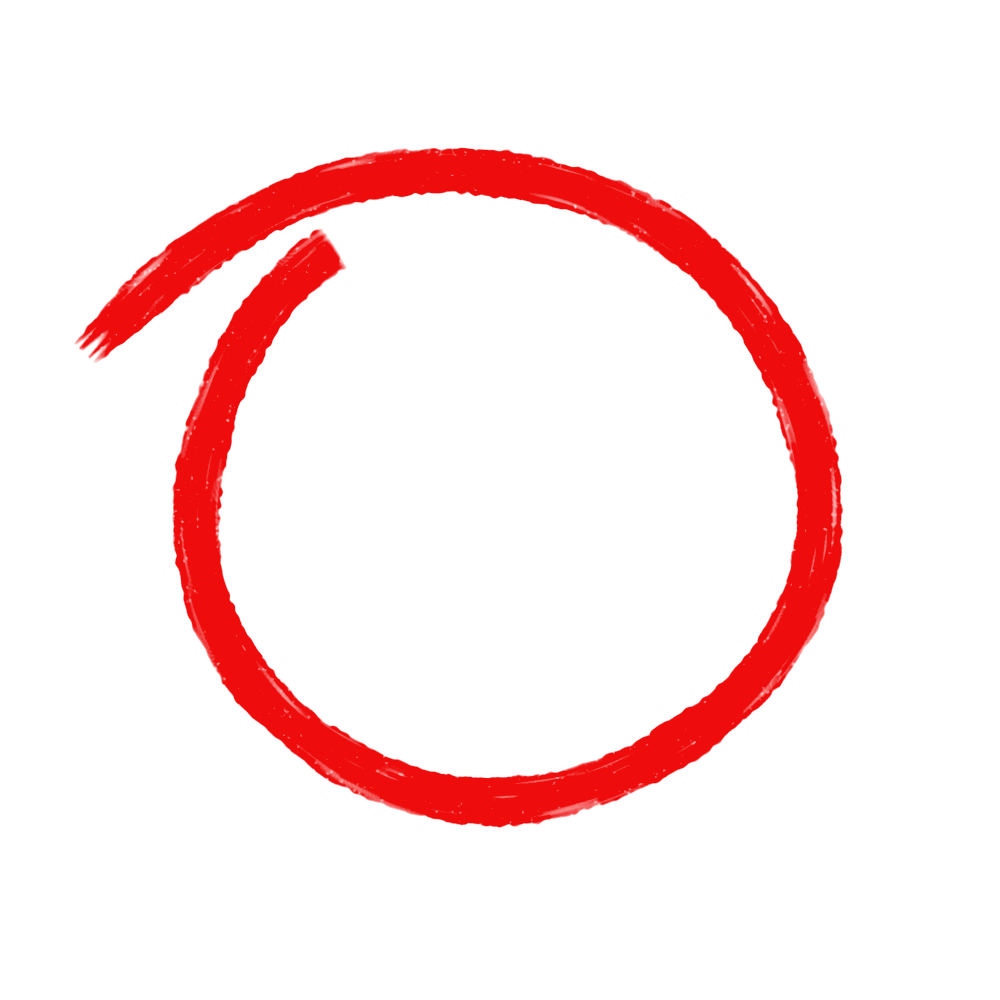
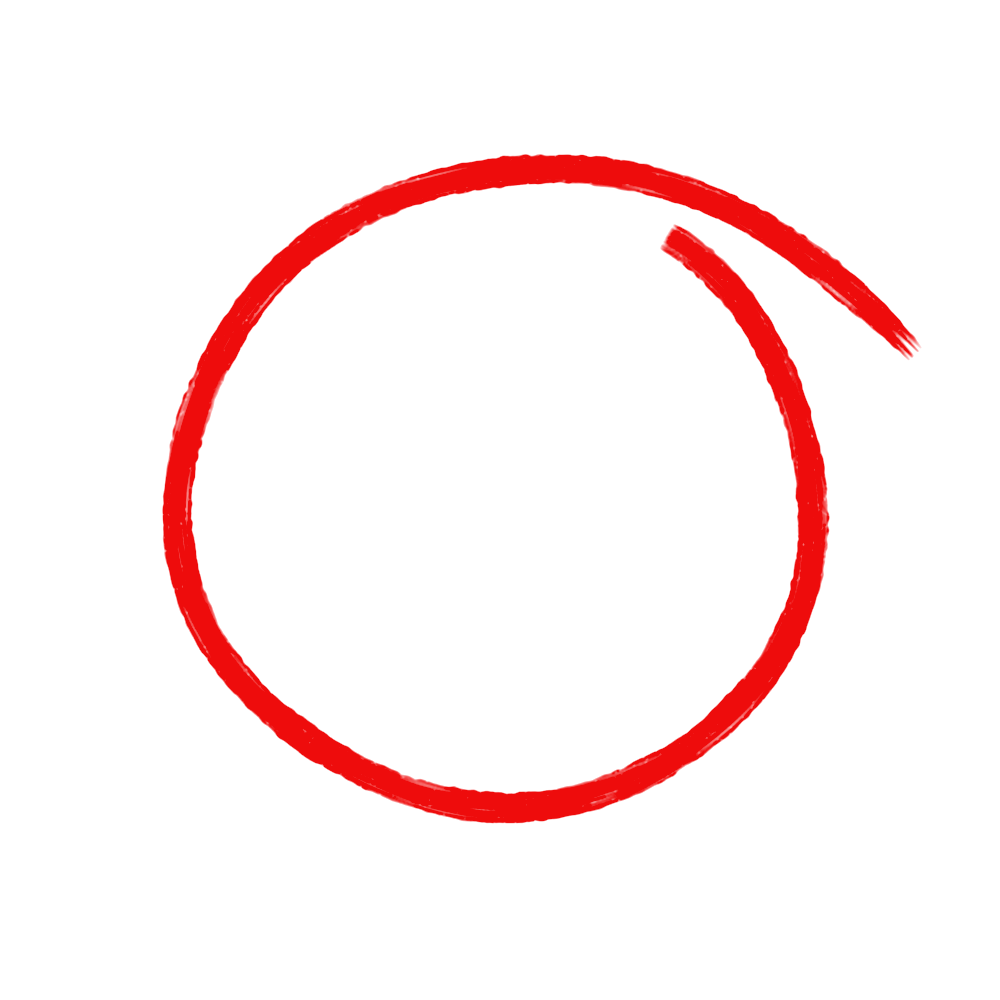
Smallpox v24: thinner counterclockwise marker, darker vibrant orange on VACCINATION
Claude-Session: https://claude.ai/code/session_0178qcQmdY3D7pLgkLoDPcSY

Changed region(s): [[0.062, 0.124, 0.93, 0.837]]

diff --git a/src/kit/ActionWord.tsx b/src/kit/ActionWord.tsx
@@ -196,14 +196,14 @@ export const ActionWord: React.FC<{
             }
             const lit = i >= hiFrom && i < hiTo ? clamp01((frame - actAt - (i - hiFrom) * 3) / 6) : 0;
             return (
-              <span key={i} style={{display: 'inline-block', transform: `translateY(${(1 - enter) * 60}px) scale(${0.4 + 0.6 * enter})`, opacity: enter, color: lit > 0.5 ? '#E0615E' : main, WebkitTextStroke: heavy ? `${fontSize * 0.04}px ${lit > 0.5 ? '#E0615E' : main}` : undefined, transition: 'none'}}>
+              <span key={i} style={{display: 'inline-block', transform: `translateY(${(1 - enter) * 60}px) scale(${0.4 + 0.6 * enter})`, opacity: enter, color: lit > 0.5 ? '#E5500F' : main, WebkitTextStroke: heavy ? `${fontSize * 0.04}px ${lit > 0.5 ? '#E5500F' : main}` : undefined, transition: 'none'}}>
                 {ch}
               </span>
             );
           })}
         </div>
         {gloss && mode === 'pop' ? (
-          <div dir={glossDir} style={{textAlign: 'center', marginTop: fontSize * 0.2, fontFamily: SANS, fontWeight: 700, fontSize: fontSize * 0.36, color: hiTo > hiFrom ? '#E0615E' : main, opacity: clamp01((frame - actAt) / 8)}}>{gloss}</div>
+          <div dir={glossDir} style={{textAlign: 'center', marginTop: fontSize * 0.2, fontFamily: SANS, fontWeight: 700, fontSize: fontSize * 0.36, color: hiTo > hiFrom ? '#E5500F' : main, opacity: clamp01((frame - actAt) / 8)}}>{gloss}</div>
         ) : null}
       </Place>
     </>

diff --git a/src/reels/Smallpox/Smallpox.tsx b/src/reels/Smallpox/Smallpox.tsx
@@ -57,7 +57,7 @@ const Hook = () => (
     scar={{x: 0.4022, y: 0.54}}
     scarTarget={{x: 540, y: 740}}
     scars={[]}
-    marker={{cx: 0.4022, cy: 0.54, scale: 1, rot: -8, at: s(1.28), dur: s(0.8)}}
+    marker={{cx: 0.4022, cy: 0.54, scale: 1, rot: 8, at: s(1.28), dur: s(0.8)}}
   />
 );
 

diff --git a/tools/make_marker.py b/tools/make_marker.py
@@ -26,8 +26,8 @@ n = 9000
 phi = np.radians(PHI0 + np.linspace(0, SWEEP, n))
 t = np.linspace(0, 1, n)
 flare = 0.40 * np.exp(-(np.degrees(phi) - PHI0) / 38.0)  # the tail comes in from outside
-r = 1.0 + flare - 0.055 * t + 0.012 * np.sin(3 * phi + 1) + 0.008 * np.sin(5 * phi)
-cx = np.cos(phi) * RX * r
+r = 1.0 + flare - 0.02 * t + 0.012 * np.sin(3 * phi + 1) + 0.008 * np.sin(5 * phi)
+cx = -np.cos(phi) * RX * r  # mirrored: the pen travels COUNTERCLOCKWISE
 cy = np.sin(phi) * RY * r
 seg = np.hypot(np.diff(cx), np.diff(cy))
 arc = np.concatenate([[0], np.cumsum(seg)])
@@ -59,7 +59,7 @@ def noise1(len_, scale, seed):
     f = f * f * (3 - 2 * f)
     return pts[i0] * (1 - f) + pts[np.minimum(i0 + 1, k - 1)] * f
 
-W = 10.4  # full stroke width in units (about 52 px)
+W = 6.6  # full stroke width in units (thinner felt tip)
 half = 0.5 * W * (0.93 + 0.14 * noise1(Ns, 120, 3)) * (0.74 + 0.26 * sm(0, 0.03, u)) * (0.82 + 0.18 * (1 - sm(0.97, 1.0, u)))
 
 NV = 110
